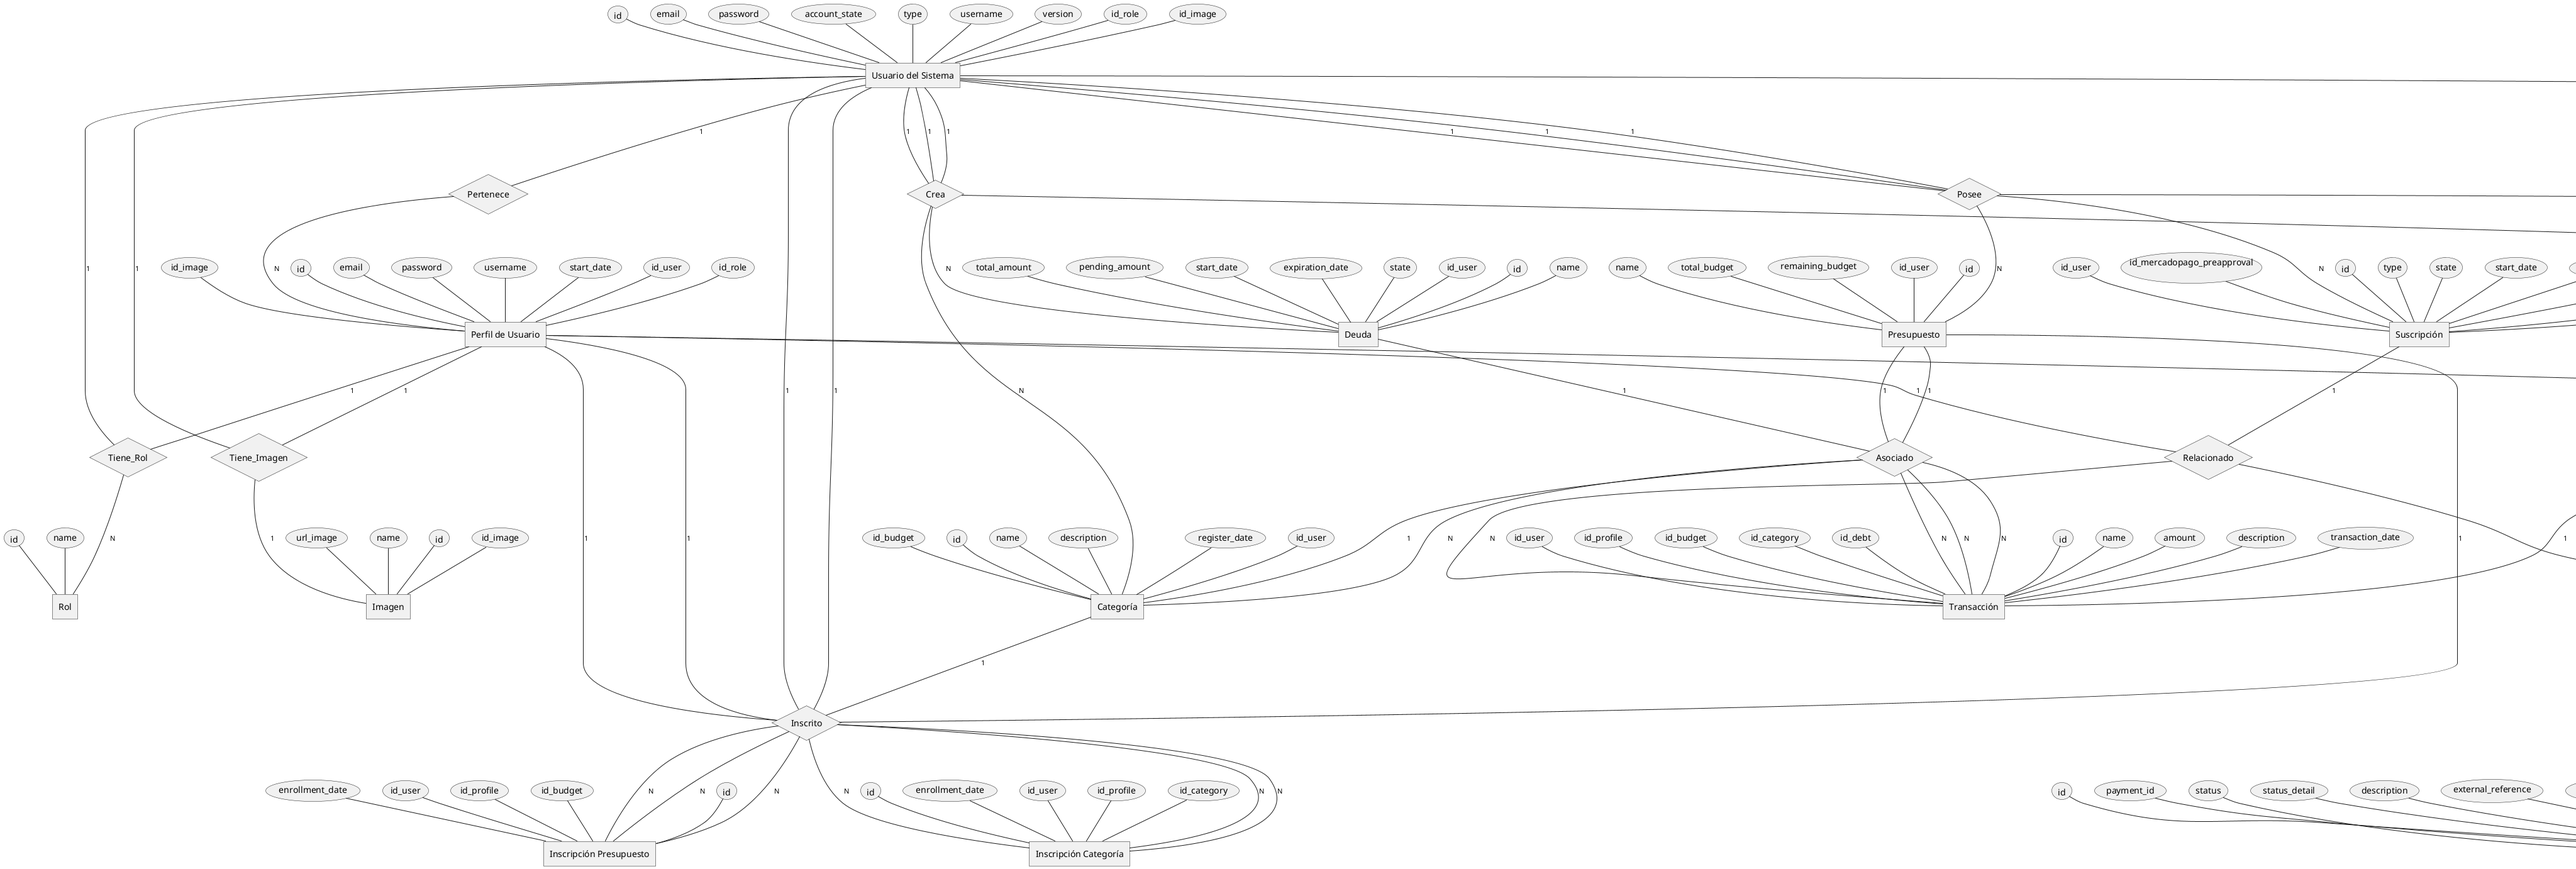
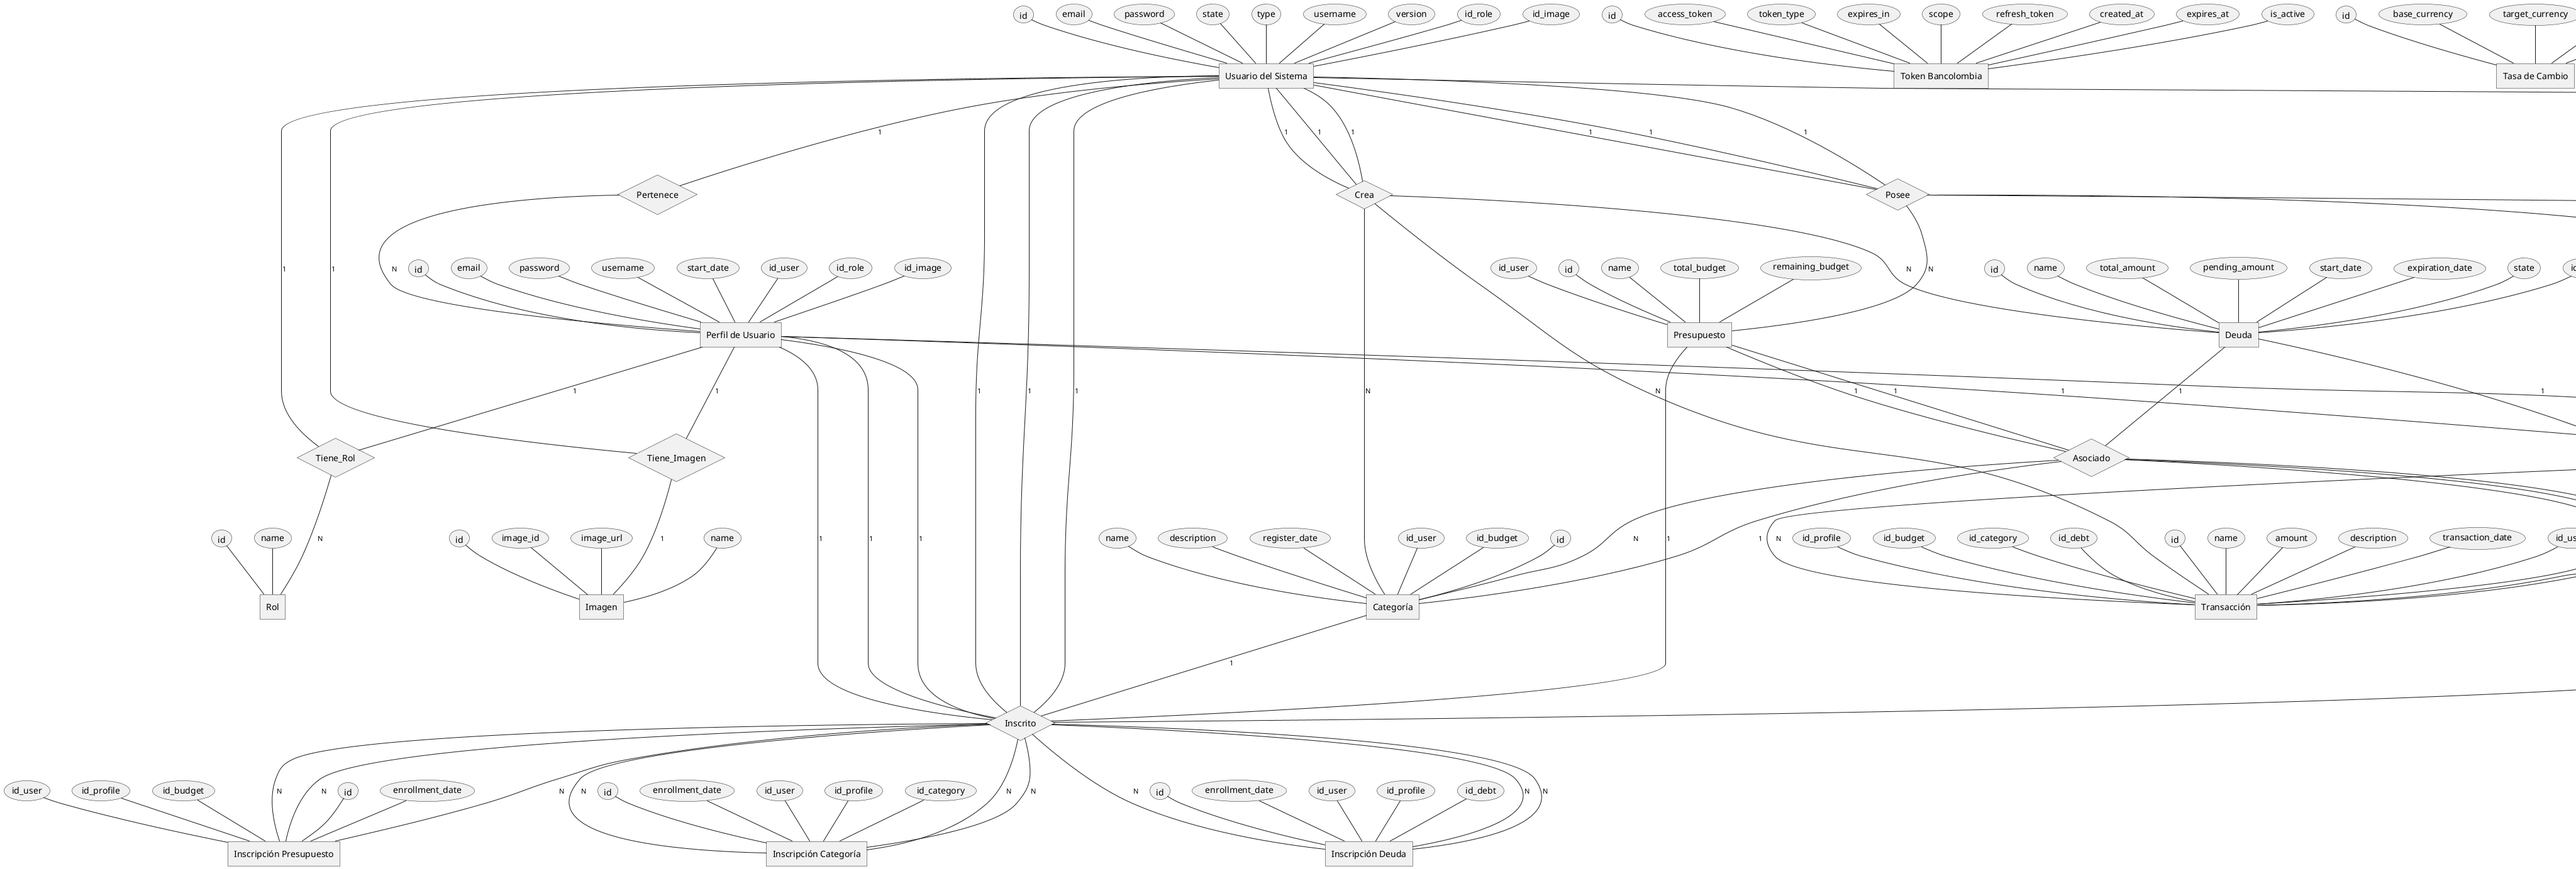
Update security config and diagrams

diff --git a/BACK-END/KuentecoApp/src/main/java/org/kuenteco/backend/config/security/SecurityConfig.java b/BACK-END/KuentecoApp/src/main/java/org/kuenteco/backend/config/security/SecurityConfig.java
@@ -87,7 +87,7 @@ public class SecurityConfig {
     @Bean
     CorsConfigurationSource corsConfigurationSource() {
         CorsConfiguration corsConfiguration = new CorsConfiguration();
-        corsConfiguration.setAllowedOriginPatterns(List.of(webUrl, mobileUrl));
+        corsConfiguration.setAllowedOriginPatterns(List.of(webUrl, mobileUrl, "http://localhost:5000"));
         corsConfiguration.setAllowedMethods(
                 List.of("GET", "POST", "PUT", "PATCH", "DELETE", "OPTIONS"));
         corsConfiguration.setAllowedHeaders(
